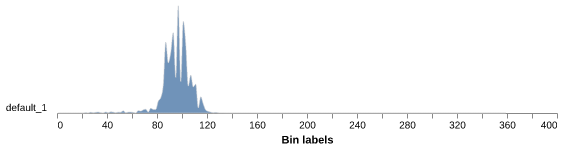
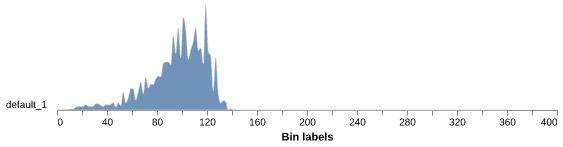
Python 3.10.13, opencv 4.9.0.80, plantcv 4.2.1

diff --git a/transformation/Transformation.py b/transformation/Transformation.py
@@ -4,12 +4,9 @@ import argparse
 from plantcv import plantcv as pcv
 import plantcv as pcv2
 import os
-<<<<<<< HEAD
 import matplotlib.pyplot as plt
 import seaborn as sns
-=======
 
->>>>>>> a20a41b9c81a79f1c033613af585560919c7cb4f
 
 def parse_argument() -> str:
 
@@ -90,72 +87,48 @@ def parse_argument() -> str:
     )
 
 
+def plot_stat_hist(label, sc=1):
+
+    y = pcv.outputs.observations['default_1'][label]['value']
+    x = [i * sc for i in  pcv.outputs.observations['default_1'][label]['label']]
+
+    if label == "hue_frequencies":
+        x = x[:int(255 / 2)]
+        y = y[:int(255 / 2)]
+    if label == "blue-yellow_frequencies" or label == "green-magenta_frequencies":
+        x = [x + 128 for x in x]
+
+    plt.plot(x, y, label=label)
+
 def display_transformations(image_path, dest, options):
 
-    # Read the image
+    # pcv.params.debug = "plot"
+
     image, path, name = pcv.readimage(image_path)
-
-    # Display the original image
-    pcv.plot_image(image)
-
-    #  We want to remove as much background as possible without loosing any information about the plant
-
-    # Convert the image to grayscale by extracting the saturation channel
-    s = pcv.rgb2gray_hsv(
-        rgb_img=image,
-        channel='s'
-    )
-    pcv.plot_image(s)
-
-    # Threshold the grayscaled image
-    s_thresh = pcv.threshold.binary(
-        gray_img=s,
-        threshold=60,
-        object_type='light'
-    )
-    pcv.plot_image(s_thresh)
-
-
-
-
-
-
-
-def main():
-
-
-
-    # for key, value in transformations.items():
-    #     print(key)
-    #     transformed_image = value(image)
-    #     pcv.plot_image(transformed_image)
-    path, dest, options = parse_argument()
-
-    image, path, name = pcv.readimage(path)
     s = pcv.rgb2gray_hsv(rgb_img=image, channel='s')
     pcv.plot_image(s)
     s_thresh = pcv.threshold.binary(gray_img=s, threshold=85, object_type='light')
     #pcv.plot_image(s_thresh)
     s_mblur = pcv.median_blur(gray_img=s_thresh, ksize=5)
-    #pcv.plot_image(s_mblur)
+    pcv.plot_image(s_mblur)
     gaussian_bluri = pcv.gaussian_blur(img=s_thresh, ksize=(3, 3), sigma_x=0, sigma_y=None)
     #pcv.plot_image(gaussian_bluri)
 
     b = pcv.rgb2gray_lab(rgb_img=image, channel='b')
-    #pcv.plot_image(b)
+    pcv.plot_image(b)
 
     b_thresh=pcv.threshold.binary(gray_img=b, threshold=135,object_type='light')
 
     bs = pcv.logical_or(bin_img1=s_mblur, bin_img2=b_thresh)
-    #pcv.plot_image(bs)
+    pcv.plot_image(bs)
 
     masked = pcv.apply_mask(img=image, mask=bs, mask_color='white')
-    #pcv.plot_image(masked)
+    pcv.plot_image(masked)
 
     masked_a = pcv.rgb2gray_lab(rgb_img=masked, channel='a')
     masked_b = pcv.rgb2gray_lab(rgb_img=masked, channel='b')
 
-    #pcv.plot_image(masked_a)
+    pcv.plot_image(masked_a)
     #pcv.plot_image(masked_b)
 
     maskeda_thresh = pcv.threshold.binary(gray_img=masked_a, threshold=115, object_type='dark')
@@ -180,49 +153,111 @@ def main():
 
     ab_fill = pcv.fill(bin_img=ab, size=200)
     print("fill")
-    pcv.plot_image(ab_fill)
+    # pcv.plot_image(ab_fill)
     #pcv.plot_image(ab_fill)
     closed_ab = pcv.closing(gray_img=ab_fill)
     #pcv.plot_image(gray_img=ab_fill)
     masked2= pcv.apply_mask(img=masked, mask=ab_fill, mask_color='white')
-    pcv.plot_image(masked2)
+    # pcv.plot_image(masked2)
 
     #obj_hierachy= pcv.find_objects(img=masked2, mask=ab_fill)
 
     #roi1, roi_hierarchy = pcv.roi.rectangle(img=masked2, x=(image.shape[0] * 0.1), y=(image.shape[1] * 0.1), w=(image.shape[0] * 0.9), h=(image.shape[1] * 0.9))
     roi= pcv.roi.rectangle(img=masked2, x=0,y=0, w=image.shape[0], h=image.shape[1])
     kept_mask = pcv.roi.filter(mask=ab_fill, roi=roi, roi_type='partial')
-    #pcv.plot_image(filtered)
+    #pcv.plot_image(filtered)`
     analysis_image = pcv.analyze.size(img=image, labeled_mask=kept_mask)
     print("analysis")
-    pcv.plot_image(analysis_image)
+    # pcv.plot_image(analysis_image)
+    #print(vars(pcv))
+
+    print("DTYPE:", bs.dtype)
+
+    import cv2
+
+    import numpy as np
+
+    # Create a new array, filled with the 2 first dimensions of image
+
+    arr = np.zeros((masked2.shape[0], masked2.shape[1]), dtype=np.uint8)
+    for i in range(masked2.shape[0]):
+        for j in range(masked2.shape[1]):
+            arr[i][j] = masked2[i][j][1]
+    print("SAHPE :", arr.shape)
+
+    img, _, _ = pcv.readimage(image_path)
+    top_x, bottom_x, center_v_x = pcv.homology.x_axis_pseudolandmarks(img=analysis_image, mask=arr, label='default')
+    top_y, bottom_y, center_v_y = pcv.homology.y_axis_pseudolandmarks(img=analysis_image, mask=arr, label='default')
+
+    print("TOP X:", top_x)
+    print("TOP Y:", top_y)
+
+    plt.imshow(arr, cmap='gray')
+
+    for i in range(len(top_x)):
+        plt.scatter(top_x[i][0][0], top_x[i][0][1], c='r', s=10)
+
+    for i in range(len(top_y)):
+        plt.scatter(top_y[i][0][0], top_y[i][0][1], c='r', s=10)
+
+    for i in range(len(bottom_x)):
+        plt.scatter(bottom_x[i][0][0], bottom_x[i][0][1], c='b', s=10)
+
+    for i in range(len(bottom_y)):
+        plt.scatter(bottom_y[i][0][0], bottom_y[i][0][1], c='b', s=10)
+
+    for i in range(len(center_v_x)):
+        plt.scatter(center_v_x[i][0][0], center_v_x[i][0][1], c='g', s=10)
+
+    for i in range(len(center_v_y)):
+        plt.scatter(center_v_y[i][0][0], center_v_y[i][0][1], c='g', s=10)
+
+
+    # for i in range(len(bottom)):
+        # plt.scatter(bottom[i][0][0], bottom[i][0][1], c='b', s=10)
+#
+    # for i in range(len(center_v)):
+        # plt.scatter(center_v[i][0][0], center_v[i][0][1], c='g', s=10)
+#
+    plt.show()
+
+
+
 
 
     color_histogram = pcv.analyze.color(rgb_img=image, colorspaces="all", labeled_mask=kept_mask,label="default")
-    #pcv.plot_image(color_histogram)
     #print(color_histogram)
     res = pcv.outputs.save_results("histo")
     #print(list(pcv.outputs.observations['default_1']['saturation_frequencies'].keys()))
     print(pcv.outputs.observations['default_1']['blue_frequencies']['value'])
-    print(pcv.outputs.observations['default_1']['blue_frequencies']['label'])
+    print(f"SUM = {sum(pcv.outputs.observations['default_1']['lightness_frequencies']['value'])}")
 
-    y = pcv.outputs.observations['default_1']['blue_frequencies']['value']
-    x = pcv.outputs.observations['default_1']['blue_frequencies']['label']
 
-    plt.plot(x, y, label="blue")
+    dict_label = {"blue_frequencies" : 1, "green_frequencies": 1, "green-magenta_frequencies" : 1 , "lightness_frequencies" : 2.55, "red_frequencies" : 1, "blue-yellow_frequencies" : 1, "hue_frequencies" : 1, "saturation_frequencies" : 2.55, "value_frequencies" : 2.55}
 
-    y = pcv.outputs.observations['default_1']['green_frequencies']['value']
-    x = pcv.outputs.observations['default_1']['green_frequencies']['label']
-    plt.plot(x, y, label="green")
-    y = pcv.outputs.observations['default_1']['red_frequencies']['value']
-    x = pcv.outputs.observations['default_1']['red_frequencies']['label']
-    plt.plot(x, y, label="red")
+    for key, val in dict_label.items():
+        plot_stat_hist(key, val)
     plt.legend()
     plt.show()
     hue_cir = pcv.outputs.observations['default_1']['hue_frequencies']
     print(list(hue_cir.keys()))
     #print(hue_cir)
     pcv.print_image(img=color_histogram, filename="histo.png")
+
+
+    homolog_pts, start_pts, stop_pts, ptvals, chain, max_dist = pcv.homology.acute(img=img,
+                                                                               mask=arr, win=42,
+                                                                               threshold=130)
+    img_plms = image.copy()
+    cv2.drawContours(img_plms, homolog_pts, -1, (255, 255, 255), pcv.params.line_thickness)
+
+
+    pcv.plot_image(img_plms)
+    plm_fig=plt.figure(figsize=(7, 10))
+    plm_fig=plt.imshow(img_plms)
+    plm_fig=plt.xscale('linear')
+    plm_fig=plt.axis('off')
+    plt.show()
 
 
 
